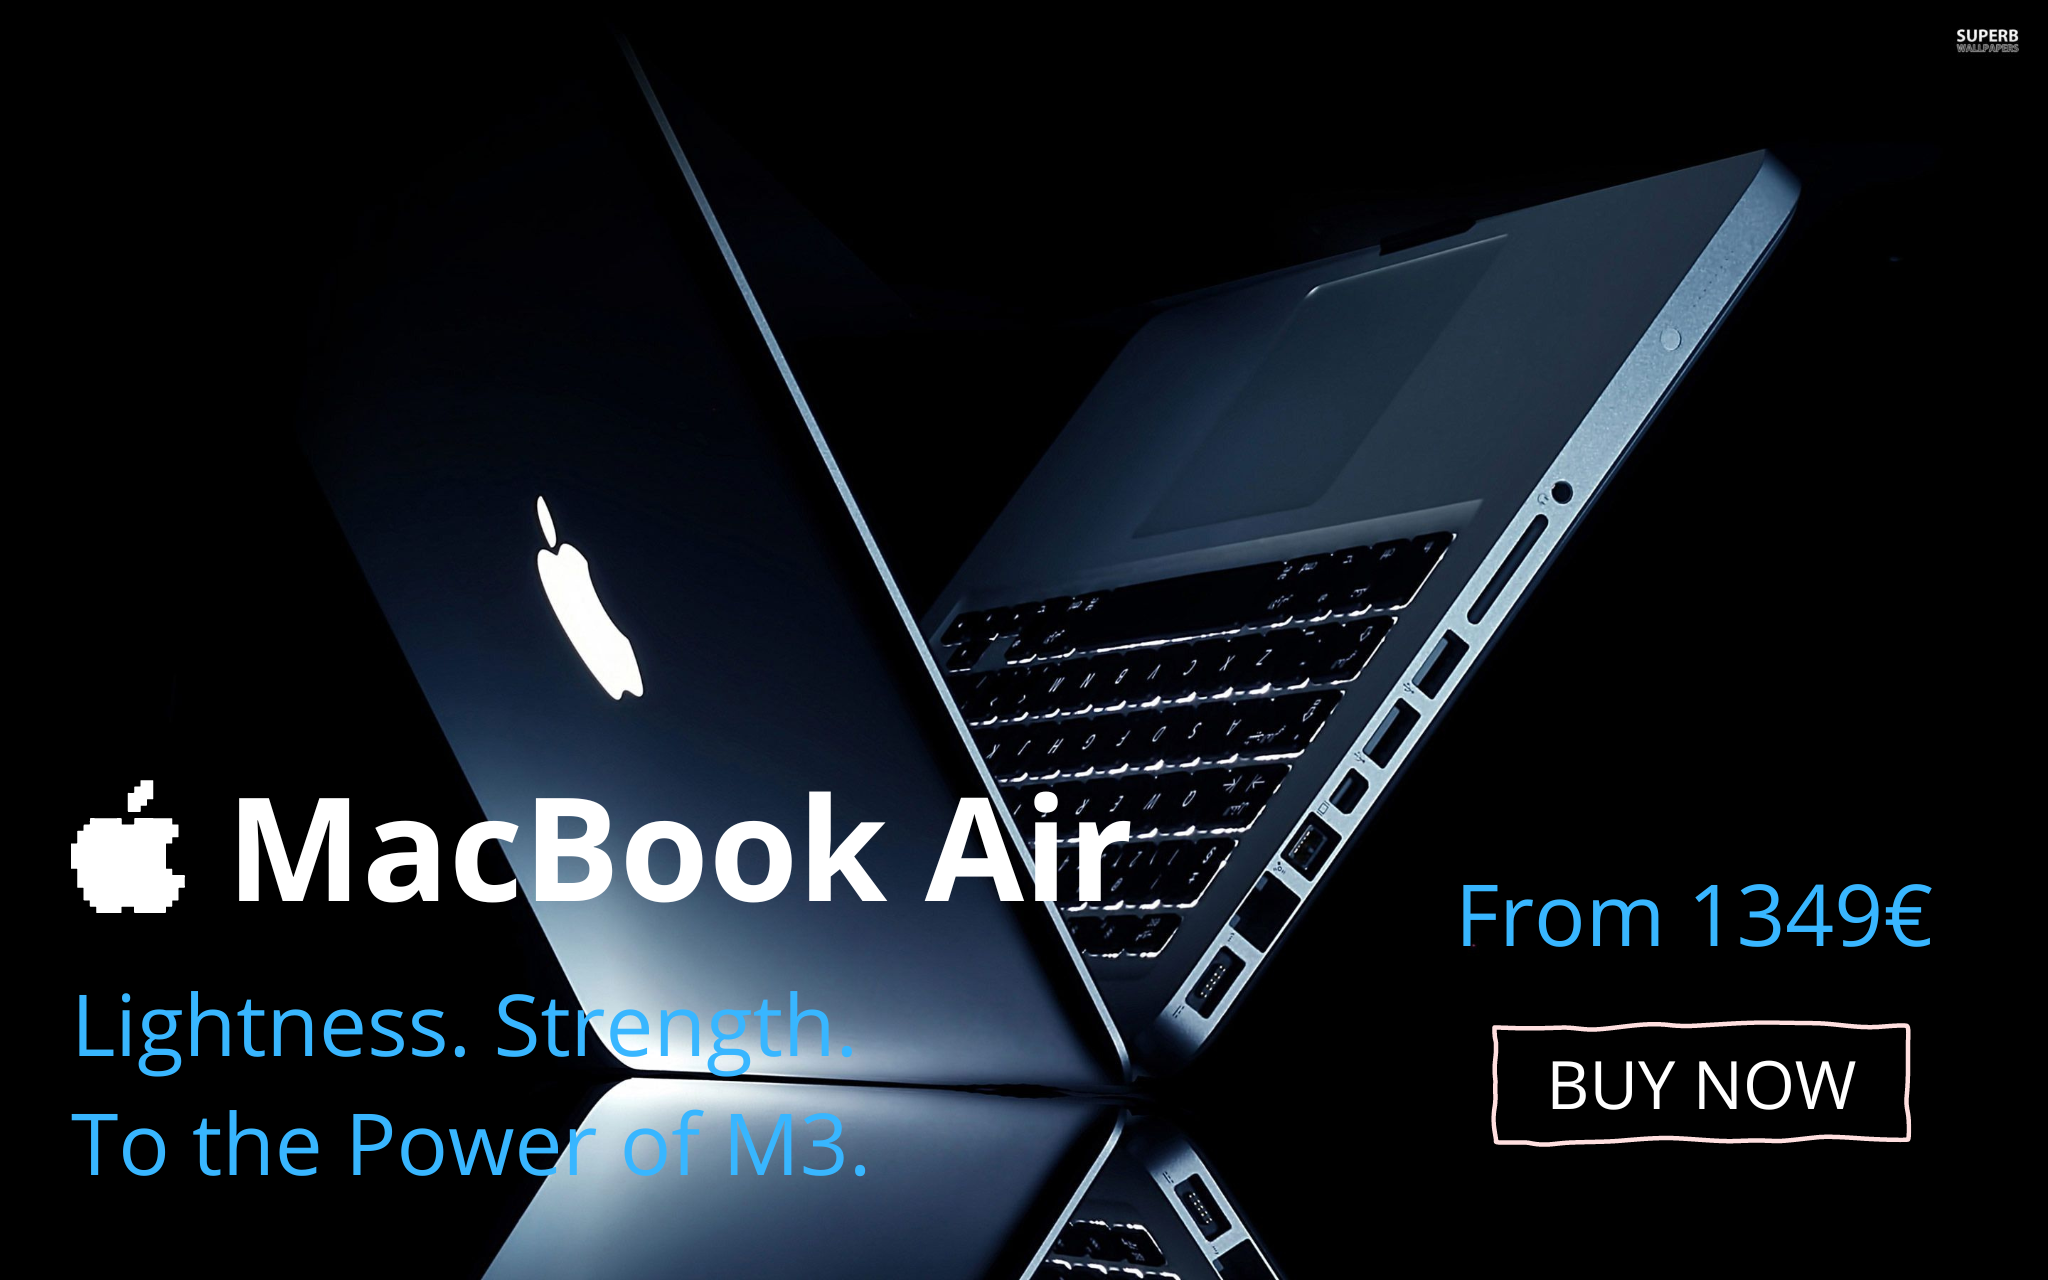
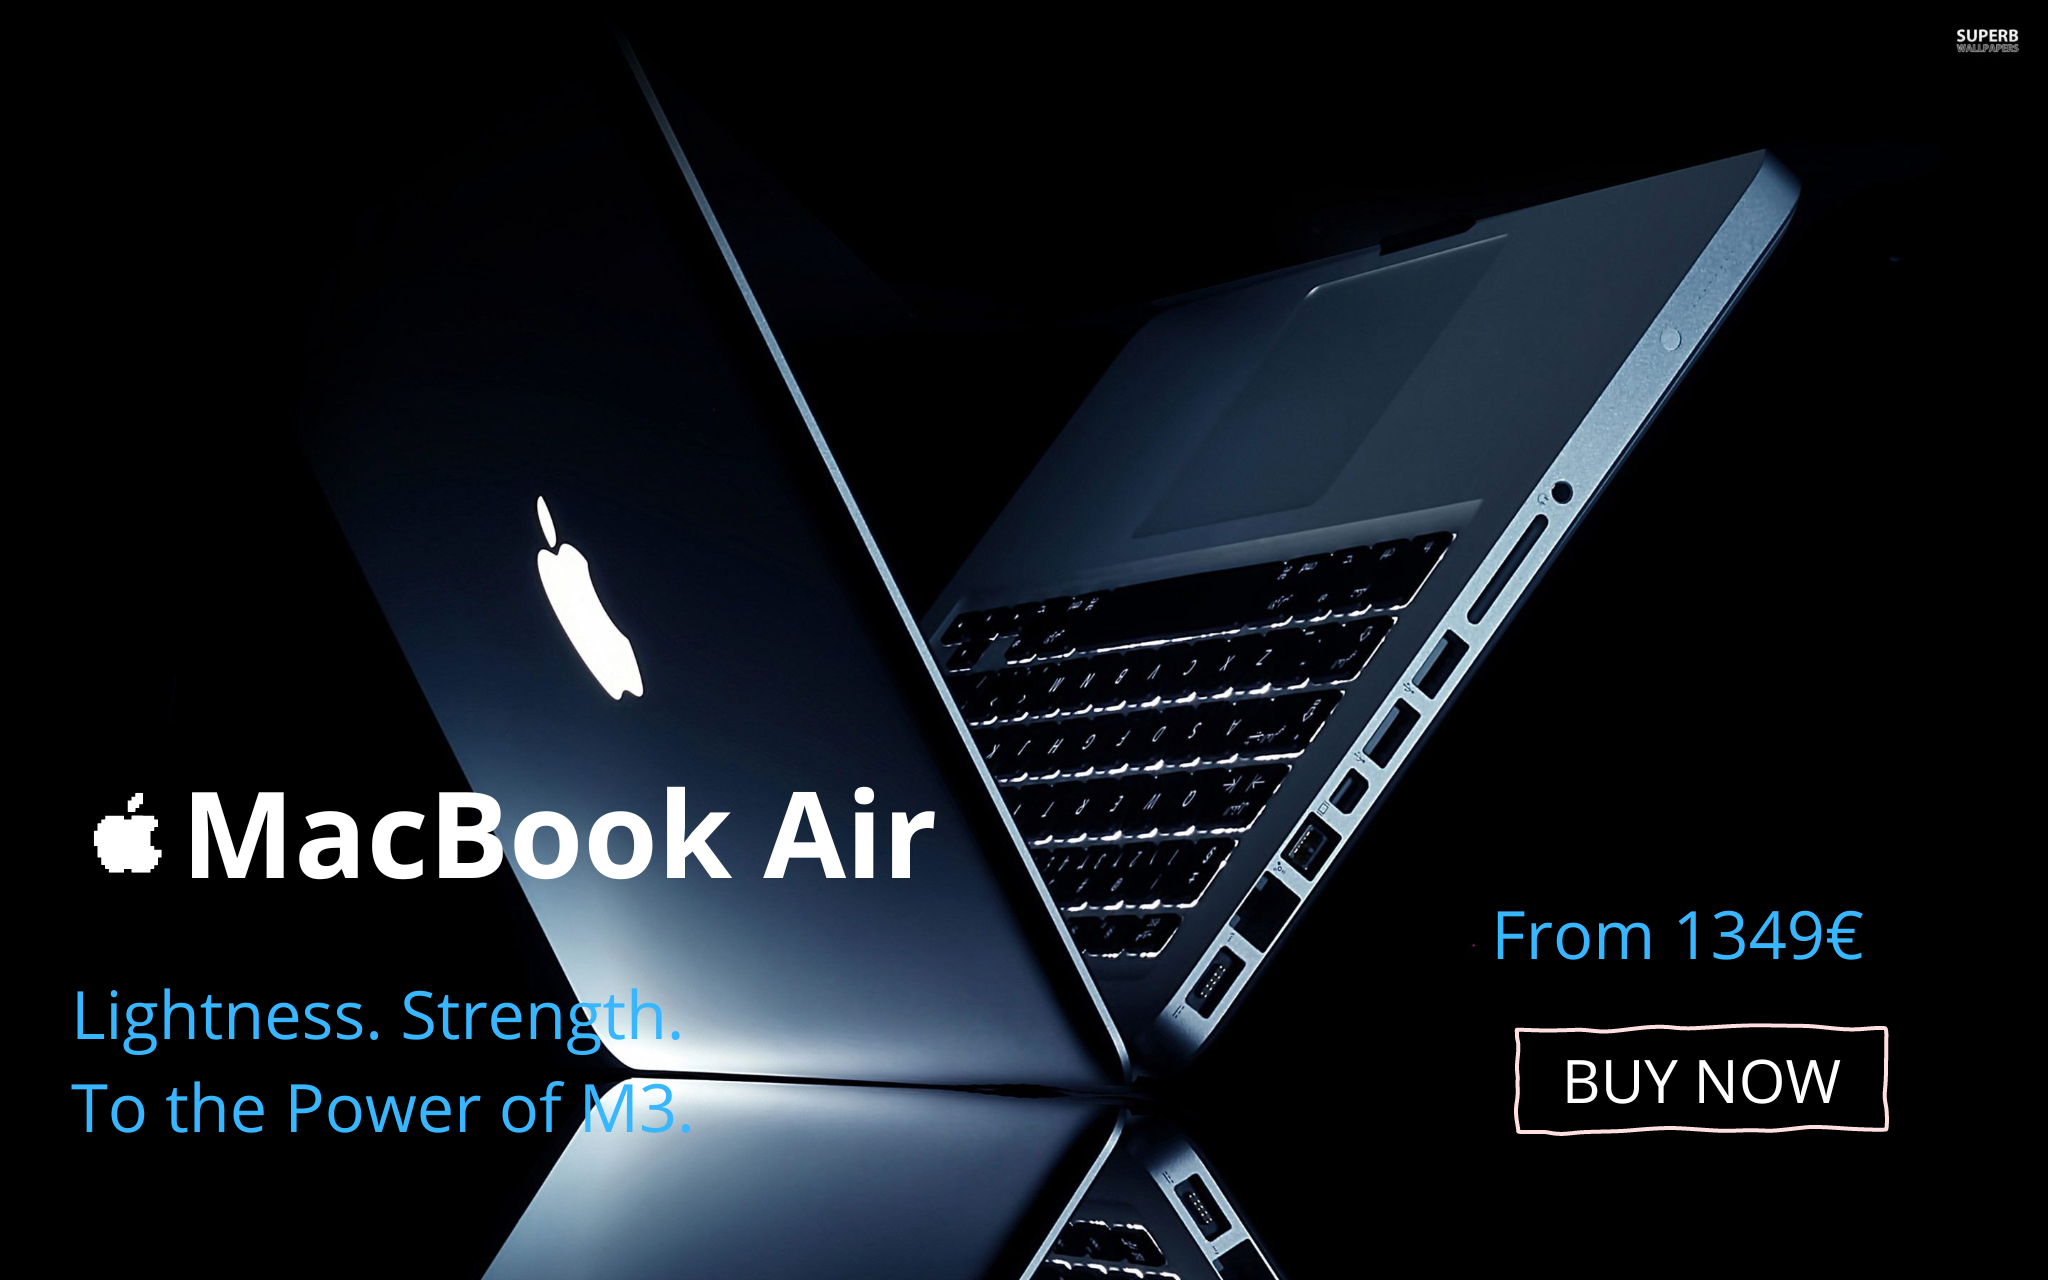
hero section

diff --git a/client/src/components/Hero/Hero.jsx b/client/src/components/Hero/Hero.jsx
@@ -1,34 +1,49 @@
 import React, { useState, useEffect } from "react";
+import { useNavigate } from 'react-router-dom';
 import style from "./Hero.module.scss";
+import image1 from "../../assets/Mac.png";
+import image2 from "../../assets/Mac (1).png";
+import image3 from "../../assets/Mac (2).png";
 
 const images = [
-  "https://i.pinimg.com/originals/b6/b1/dd/b6b1dd61c339d36c460c698101284cb7.jpg",
-  "https://appletoolbox.com/wp-content/uploads/2022/03/Set-Wallpaper-on-Apple-Watch-Customize-Watch-Face-scaled.jpg",
-  "https://nofilmschool.com/media-library/iphone-15-pro-max.jpg?id=38612388&width=1245&height=700&quality=90&coordinates=0%2C0%2C0%2C0",
+  { id: 1, src: image1, alt: "Description of Image 1", path: "/page1" },
+  { id: 2, src: image2, alt: "Description of Image 2", path: "/page2" },
+  { id: 3, src: image3, alt: "Description of Image 3", path: "/page3" },
 ];
 
 const Hero = () => {
   const [currentImageIndex, setCurrentImageIndex] = useState(0);
+  const navigate = useNavigate();
 
   useEffect(() => {
     const interval = setInterval(() => {
-      setCurrentImageIndex((current) => (current + 1) % images.length);
-    }, 5000); 
+      setCurrentImageIndex(prevIndex => (prevIndex + 1) % images.length);
+    }, 7000); 
     return () => clearInterval(interval);
   }, []);
 
-  const changeImage = (index) => {
-    setCurrentImageIndex(index);
+  const changeImage = (id) => {
+    const newIndex = images.findIndex(image => image.id === id);
+    setCurrentImageIndex(newIndex);
+  };
+
+  const handleImageClick = () => {
+    const path = images[currentImageIndex].path;
+    navigate(path);
   };
 
   return (
     <div className={style.multislider}>
-      <div className={style["slider-layer"]} id="slider-layer">
-        <img src={images[currentImageIndex]} alt={`Slider ${currentImageIndex + 1}`} />
+      <div className={style["slider-layer"]} onClick={handleImageClick}>
+        <img src={images[currentImageIndex].src} alt={images[currentImageIndex].alt} />
       </div>
       <div className={style["multislider-inner"]}>
-        {images.map((_, index) => (
-          <button key={index} onClick={() => changeImage(index)} className={`${style.navButton} ${currentImageIndex === index ? style.active : ""}`}>
+        {images.map((image, index) => (
+          <button
+            key={image.id}
+            onClick={() => changeImage(image.id)}
+            className={`${style.navButton} ${index === currentImageIndex ? style.active : ""}`}
+          >
             {index + 1}
           </button>
         ))}

diff --git a/client/src/components/Hero/Hero.module.scss b/client/src/components/Hero/Hero.module.scss
@@ -1,40 +1,42 @@
 .multislider {
+  width: 100%;
+  overflow: hidden;
+  margin-bottom: 50px;
+
+  .slider-layer {
     width: 100%;
-    overflow: hidden;
-  
-    .slider-layer {
+    display: flex;
+    justify-content: center;
+    align-items: center;
+
+    img {
       width: 100%;
-      display: flex;
-      justify-content: center;
-      align-items: center;
-      height: 80vh;
-      img {
-        width: 100%;
-        max-height: 100%;
-        object-fit: cover; 
-        transition: opacity 0.5s ease-in-out;
+      height: auto;
+      object-fit: cover;
+      transition: opacity 0.5s ease-in-out;
+      cursor: pointer;
+    }
+  }
+
+  .multislider-inner {
+    text-align: center;
+    margin-top: 20px;
+
+    .navButton {
+      margin: 0 5px;
+      padding: 10px 15px;
+      font-size: 18px;
+      cursor: pointer;
+      background-color: #ccc;
+      border: none;
+      border-radius: 50%;
+      opacity: 0.7;
+      transition: background-color 0.3s, opacity 0.3s;
+
+      &.active {
+        background-color: #fff;
+        opacity: 1;
       }
     }
-  
-    .multislider-inner {
-      text-align: center;
-      padding-top: 20px; 
-  
-      .navButton {
-        margin: 0 5px;
-        padding: 5px 10px;
-        cursor: pointer;
-        background-color: #ccc;
-        border: none;
-        border-radius: 50%;
-        opacity: 0.7;
-        transition: background-color 0.3s, opacity 0.3s;
-  
-        &:hover,
-        &.active {
-          background-color: #fff;
-          opacity: 1;
-        }
-      }
-    }
-  }  
+  }
+}

diff --git a/client/src/components/Navigation/Navigation.module.scss b/client/src/components/Navigation/Navigation.module.scss
@@ -10,6 +10,7 @@
   width: 100%;
   right: 0;
   left: 0;
+  top: 0;
 }
 
 .header-logo {
@@ -40,7 +41,7 @@
     padding: 0;
     margin: 0;
     display: flex;
-    font-size: 1.2rem;
+    font-size: 1.4rem;
     gap: 16px;
 
     li {
@@ -66,14 +67,14 @@
 
   .percentage {
     color: black;
-    font-size: 1rem;
+    font-size: 1.2rem;
   }
 }
 
 .navbar__products-icons {
   display: flex;
   padding-right: 2rem;
-  font-size: 1.2rem;
+  font-size: 1.4rem;
   height: 50px;
 
   a {

diff --git a/client/src/pages/Home/Home.jsx b/client/src/pages/Home/Home.jsx
@@ -1,12 +1,14 @@
-import React from 'react'
-import Hero from '../../components/Hero/Hero.jsx'
+import React, { Suspense } from 'react';
+const Hero = React.lazy(() => import('../../components/Hero/Hero'));
 
 const Home = () => {
   return (
     <div>
-      <Hero/>
+      <Suspense fallback={<div>Loading Hero Component...</div>}>
+        <Hero />
+      </Suspense>
     </div>
   )
 }
 
-export default Home
+export default Home;

diff --git a/client/src/components/Row/Row.jsx b/client/src/components/Row/Row.jsx
@@ -1,0 +1,12 @@
+import React from 'react';
+import style from './Row.module.scss'
+
+const Row = () => {
+  return (
+    <div className={style.row}>
+        
+    </div>
+  )
+}
+
+export default Row

diff --git a/client/src/index.scss b/client/src/index.scss
@@ -20,6 +20,7 @@ body {
     line-height: 1.5;
     color: #282828;
     background-color: #fff;
+    background-color: black;
 }
 
 html {
